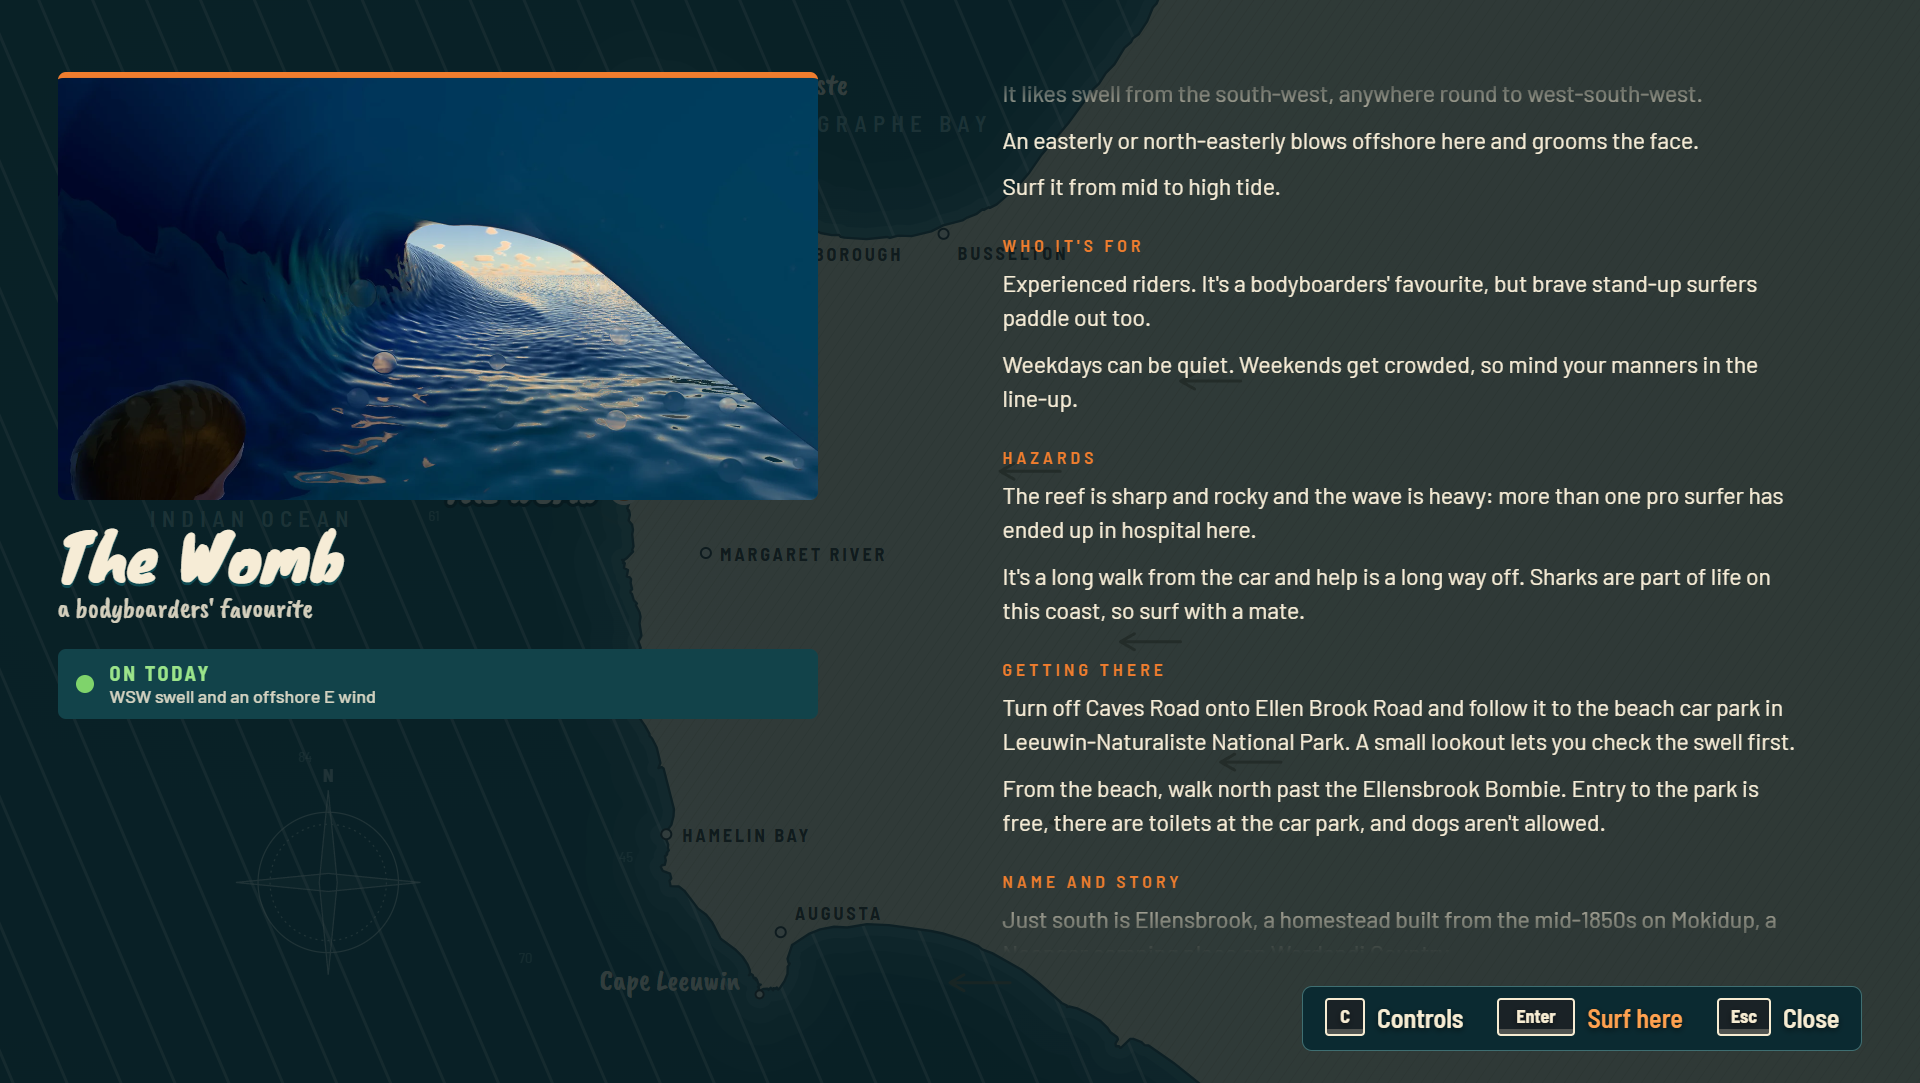
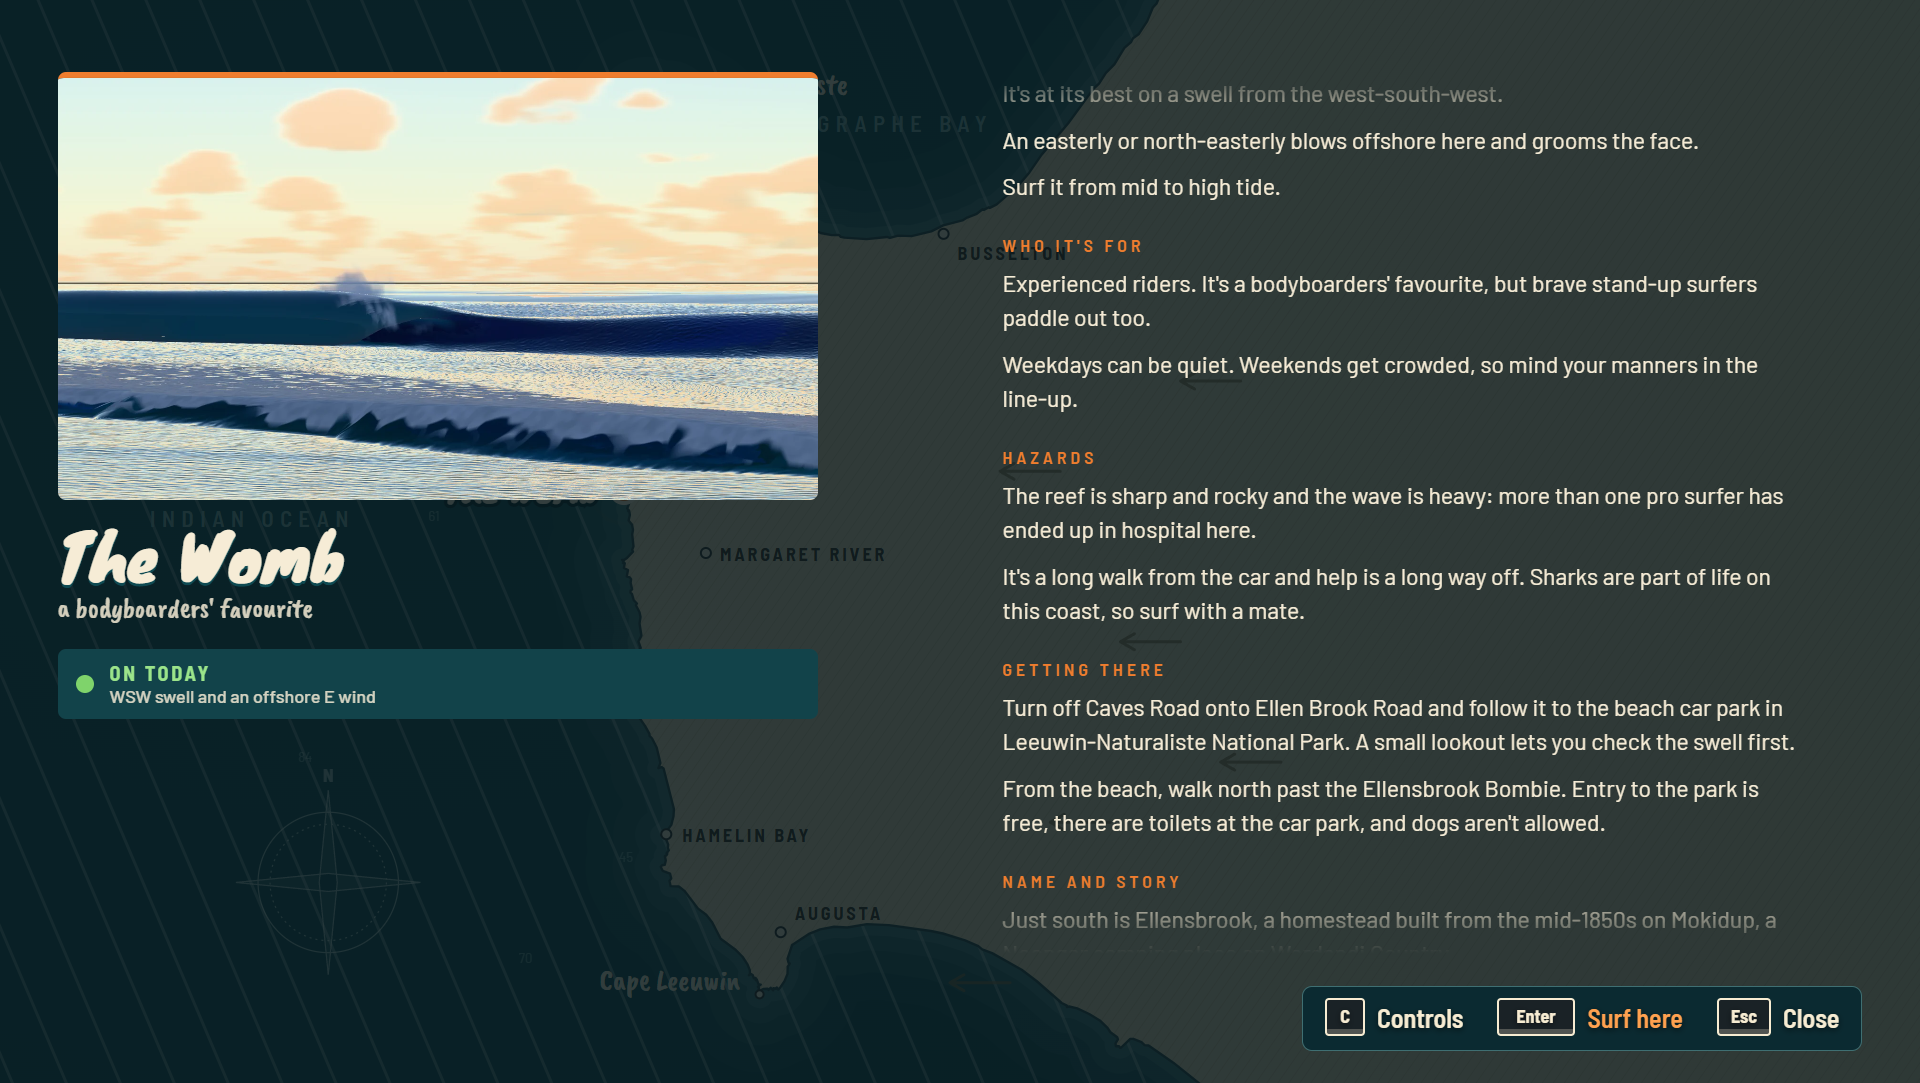
feat(surf-map): the Womb's swell claim reworded to WSW (what the retuned wave and the sources agree on); the details picture from the beach, not the tube cam; Dunsborough off the chart
- best swell 240–255° (WSW): claims rerun, best-swell passes; the panel names a one-point arc once.
- public/breaks/womb-hero.webp: shot from the shore 200 m down the line (tools/_heroMoment.ts); a placeholder until the
  wave is finished. The recapture command is in the evidence README.
- No Dunsborough label: no waves break there (Andrew).
- captureHub sets the custom setup the panel reads (customSetup).

Changed region(s): [[0.0312, 0.0609, 0.4688, 0.4875], [0.5312, 0.0609, 0.875, 0.0914]]

diff --git a/tools/_heroMoment.ts b/tools/_heroMoment.ts
@@ -1,0 +1,44 @@
+// surf-map hub: the break details page's hero, a shot from the beach in ideal conditions (Andrew 2026-10-10: not the
+// tube cam). Finds the beach inshore of the Womb's tip, puts a standing eye on it looking at the take-off, and prints
+// captureMoments.mjs lines for the biggest wave of a set at a few times after it reaches the tip.
+// npx node tools/_heroMoment.ts [--down=25] [--look=25] [--fov=0 (the game's)] [--pitch=1] [--from=247] [--band=Pumping] [--tide=0] [--times=1,2,3,4] [--eye=1.7] [--base=http://localhost:5173/] [--out=…]
+import { readFileSync } from 'node:fs';
+import { runnerImport } from 'vite';
+const imp = async <T>(p: string) => (await runnerImport<T>(p)).module;
+const { DEFAULT_CONDITIONS, cloneConditions } = await imp<typeof import('../src/conditions/defaults')>('/src/conditions/defaults.ts');
+const { DEFAULT_SET_PARAMS, wavesBetween } = await imp<typeof import('../src/swell/sets')>('/src/swell/sets.ts');
+const { SWELL_BANDS } = await imp<typeof import('../src/frontend/sessionSetup')>('/src/frontend/sessionSetup.ts');
+const { TIP, LEFT_BEARING_DEG } = await imp<typeof import('../src/seabed/wombReef')>('/src/seabed/wombReef.ts');
+const { decodeLandFile } = await imp<typeof import('../src/land/landData')>('/src/land/landData.ts');
+const { LandHeight } = await imp<typeof import('../src/land/landHeight')>('/src/land/landHeight.ts');
+
+const arg = (n: string) => process.argv.find((a) => a.startsWith(`--${n}=`))?.slice(n.length + 3);
+const from = Number(arg('from') ?? 247), band = arg('band') ?? 'Pumping', tide = Number(arg('tide') ?? 0), eye = Number(arg('eye') ?? 1.7);
+const times = (arg('times') ?? '1,2,3,4').split(',').map(Number), base = arg('base') ?? 'http://localhost:5173/';
+const out = arg('out') ?? '../liquid-dreams-captures/hero';
+const b64 = (o: unknown) => Buffer.from(JSON.stringify(o)).toString('base64');
+const lh = new LandHeight(decodeLandFile(new Uint8Array(readFileSync('public/terrain/womb-land.bin'))));
+const br = (LEFT_BEARING_DEG * Math.PI) / 180, along = [Math.sin(br), -Math.cos(br)], inshore = [Math.cos(br), Math.sin(br)];
+// The beach: the dry ground (0.4 m above the tide) nearest that point, searched on a 2 m grid.
+// --down: the shore nearest a point that far down the line (a left is shot from down the beach, looking back up the
+// line into the tube); --look: the point on the line the camera looks at.
+const down = Number(arg('down') ?? 25), look = Number(arg('look') ?? 25), fov = Number(arg('fov') ?? 0);
+const at0 = [TIP[0] + down * along[0], TIP[1] + down * along[1]];
+let beach: [number, number] | null = null, ground = 0, best = Infinity;
+for (let dx = -400; dx <= 400; dx += 2) for (let dz = -400; dz <= 400; dz += 2) {
+  const x = at0[0] + dx, z = at0[1] + dz, h = lh.heightAt(x, z), d = Math.hypot(dx, dz);
+  if (h !== null && Number.isFinite(h) && h > tide + 0.4 && d < best) { best = d; beach = [x, z]; ground = h; }
+}
+if (!beach) throw new Error('no beach found inshore of the tip');
+const at = [TIP[0] + look * along[0], TIP[1] + look * along[1]];
+const yawDeg = +(((Math.atan2(at[0] - beach[0], -(at[1] - beach[1])) * 180) / Math.PI + 360) % 360).toFixed(1);
+const camera = { mode: 'free', position: [+beach[0].toFixed(1), +(ground + eye).toFixed(2), +beach[1].toFixed(1)], yawDeg, pitchDeg: Number(arg('pitch') ?? 1) };
+const b = SWELL_BANDS.find((x) => x.label === band)!, c = cloneConditions(DEFAULT_CONDITIONS);
+c.swell.sizeFt = b.ft; c.swell.periodS = b.periodS; c.swell.directionDeg = from; c.tideM = tide;
+c.wind.speedMs = 3; c.wind.directionDeg = 90;
+const waves = wavesBetween(300, 900, c, DEFAULT_SET_PARAMS), set = waves.filter((w) => w.slot === waves[0].slot);
+const big = set.reduce((a, w) => (w.heightM > a.heightM ? w : a));
+const ts = times.map((t) => +(big.arrivalS + t).toFixed(2));
+console.log(`# beach ${beach.map((v) => v.toFixed(1))} ground ${ground.toFixed(2)} m, ${Math.hypot(beach[0] - TIP[0], beach[1] - TIP[1]).toFixed(0)} m from the tip; yaw ${yawDeg}`);
+const pre = fov ? ` "--pre=(() => { const c = window.liquidDreams.camera; c.fov = ${fov}; c.updateProjectionMatrix(); })()"` : '';
+console.log(`npx electron tools/captureMoments.mjs --base=${base} --out=${out}/${band}-${from}-tide${tide} --times=${ts.join(',')} --m=${b64({ conditions: c, camera, simTime: ts[0], paused: true })}${pre}`);

diff --git a/src/frontend/capesGeom.test.ts b/src/frontend/capesGeom.test.ts
@@ -1,6 +1,6 @@
 // src/frontend/capesGeom.test.ts
 import { describe, expect, it } from 'vitest';
-import { CHART, CHART_LABELS, TITLE_VIEW, capesToChart, chartSwellLines, chartWindArrows, compass16 } from './capesGeom';
+import { CHART, CHART_LABELS, TITLE_VIEW, capesToChart, chartSwellLines, chartWindArrows, compass16, compassArc } from './capesGeom';
 
 describe('capesToChart', () => {
   it('puts the frame origin at the top-left', () => {
@@ -20,10 +20,11 @@ describe('capesToChart', () => {
 });
 
 describe('labels', () => {
-  it('names both capes, Geographe Bay and the seven towns', () => {
+  it('names both capes, Geographe Bay and the towns (no Dunsborough: no waves break there, Andrew 2026-10-10)', () => {
     const t = CHART_LABELS.map((l) => l.text);
-    for (const n of ['Cape Naturaliste', 'Cape Leeuwin', 'GEOGRAPHE BAY', 'INDIAN OCEAN', 'YALLINGUP', 'DUNSBOROUGH', 'BUSSELTON', 'GRACETOWN', 'MARGARET RIVER', 'HAMELIN BAY', 'AUGUSTA'])
+    for (const n of ['Cape Naturaliste', 'Cape Leeuwin', 'GEOGRAPHE BAY', 'INDIAN OCEAN', 'YALLINGUP', 'BUSSELTON', 'GRACETOWN', 'MARGARET RIVER', 'HAMELIN BAY', 'AUGUSTA'])
       expect(t).toContain(n);
+    expect(t).not.toContain('DUNSBOROUGH');
   });
 });
 
@@ -58,6 +59,12 @@ describe('chartWindArrows', () => {
 describe('compass16', () => {
   it('names the sixteen points', () => {
     expect(compass16(247)).toBe('WSW'); expect(compass16(90)).toBe('E'); expect(compass16(359)).toBe('N'); expect(compass16(202)).toBe('SSW');
+  });
+});
+
+describe('compassArc', () => {
+  it('names an arc by its ends, once when both ends share a point', () => {
+    expect(compassArc([225, 248])).toBe('SW – WSW'); expect(compassArc([240, 255])).toBe('WSW');
   });
 });
 

diff --git a/src/frontend/ui/surfMapPanel.ts b/src/frontend/ui/surfMapPanel.ts
@@ -2,7 +2,7 @@
 // the tabs (Surf map · Library, locked), today's conditions and the source switch; top-right the Local tag; on the right
 // the focused break's panel; a dotted leader from its pin to the panel.
 import { SURF_BREAKS, breakById } from '../../breaks/index';
-import { compass16 } from '../capesGeom';
+import { compass16, compassArc } from '../capesGeom';
 import { breakToday, conditionsNow, todaysSetup } from '../conditionsSource';
 import type { FrontAction, FrontState } from '../frontEnd';
 import { CapesChart } from './capesChart';
@@ -69,8 +69,8 @@ export class SurfMapPanel {
     const verdictText = { on: 'ON TODAY', fair: 'FAIR TODAY', off: 'OFF TODAY' }[today_.verdict];
     const stat = (k: string, v: string) => { const d = h('div', 'fe-map-stat'); d.append(h('div', 'fe-map-stat-k', k), h('div', 'fe-map-stat-v', v)); return d; };
     const stats = h('div', 'fe-map-stats');
-    if (b.bestShown.swell) stats.appendChild(stat('BEST SWELL', `${compass16(b.best.swellFromDeg[0])} – ${compass16(b.best.swellFromDeg[1])}`));
-    if (b.bestShown.wind) stats.appendChild(stat('BEST WIND', `${compass16(b.best.windFromDeg[0])} – ${compass16(b.best.windFromDeg[1])} · offshore`));
+    if (b.bestShown.swell) stats.appendChild(stat('BEST SWELL', compassArc(b.best.swellFromDeg)));
+    if (b.bestShown.wind) stats.appendChild(stat('BEST WIND', `${compassArc(b.best.windFromDeg)} · offshore`));
     if (b.bestShown.tide) stats.appendChild(stat('BEST TIDE', b.best.tide.map((t) => TIDE[t]).join(', ')));
     stats.appendChild(stat('LEVEL', LEVEL[b.best.level]));
     const verdict = h('div', `fe-map-verdict is-${today_.verdict}`);

diff --git a/src/frontend/capesGeom.ts b/src/frontend/capesGeom.ts
@@ -21,7 +21,6 @@ export const CHART_LABELS: readonly ChartLabel[] = [
   { text: 'GEOGRAPHE BAY', lonLat: [115.27, -33.555], kind: 'water', dx: 0, dy: 0, anchor: 'middle', dot: false },
   { text: 'INDIAN OCEAN', lonLat: [114.56, -33.93], kind: 'water', dx: 0, dy: 0, anchor: 'middle', dot: false },
   { text: 'YALLINGUP', lonLat: [115.03, -33.645], kind: 'town', dx: 14, dy: 8, anchor: 'start', dot: true },
-  { text: 'DUNSBOROUGH', lonLat: [115.105, -33.615], kind: 'town', dx: 30, dy: 66, anchor: 'start', dot: true },
   { text: 'BUSSELTON', lonLat: [115.345, -33.652], kind: 'town', dx: 14, dy: 26, anchor: 'start', dot: true },
   { text: 'GRACETOWN', lonLat: [114.99, -33.866], kind: 'town', dx: 16, dy: -6, anchor: 'start', dot: true },
   { text: 'MARGARET RIVER', lonLat: [115.075, -33.955], kind: 'town', dx: 14, dy: 8, anchor: 'start', dot: true },
@@ -64,6 +63,12 @@ export function chartWindArrows(fromDeg: number | null, speedMs: number): WindAr
 const POINTS = ['N', 'NNE', 'NE', 'ENE', 'E', 'ESE', 'SE', 'SSE', 'S', 'SSW', 'SW', 'WSW', 'W', 'WNW', 'NW', 'NNW'];
 export function compass16(deg: number): string {
   return POINTS[Math.round((((deg % 360) + 360) % 360) / 22.5) % 16];
+}
+
+/** A direction arc in words: its two ends, or one when both round to the same point (the panel's best swell and wind). */
+export function compassArc(arc: readonly [number, number]): string {
+  const a = compass16(arc[0]), b = compass16(arc[1]);
+  return a === b ? a : `${a} – ${b}`;
 }
 
 /** The title's close-up: a 640×360 window (3× zoom) centred between Gracetown and the river mouth. */

diff --git a/docs/superpowers/evidence/surf-map-hub/README.md b/docs/superpowers/evidence/surf-map-hub/README.md
@@ -63,6 +63,30 @@ The executor's own rulings, task by task, are in `execution-ledger.md`, with the
 - **`tools/_selftest.mjs` can stall** when its window is occluded, because background throttling is on. A copy with
   throttling off ran the same tests clean.
 
+## The details page's picture (work in progress)
+
+Andrew, 2026-10-10: not the tube cam, a shot from the beach in ideal conditions.
+
+- **The current shot:** `public/breaks/womb-hero.webp`. It shows the Womb at 7 ft @ 15 s from 247°, mid tide, light
+  offshore, 1.8 s after the set's biggest wave reaches the take-off.
+- **Camera:** on the shore 200 m down the line, eye 5 m up, a 10° field of view.
+- **The wave is still being finished. Recapture the shot when it's done:**
+
+```
+npx node tools/_heroMoment.ts --down=200 --look=40 --eye=5 --fov=10 --pitch=-0.2 --times=1.2,1.8,2.4,3 --base=http://localhost:5173/ --out=<folder>
+```
+
+Run the `captureMoments.mjs` line it prints, with `--settle=4000`. Pick a frame, then crop it to 16:9 into
+`public/breaks/womb-hero.webp` (1600×900, webp quality 86).
+
+Close any other window running the game first. A second copy on the GPU makes frames lag, and the captures come out a
+step behind.
+
+## Map labels
+
+Dunsborough is left off the chart (Andrew, 2026-10-10): no waves break there, and its label sat a long way from its
+dot to clear Yallingup's.
+
 ## Left for later builds
 
 - **Build 2, the Library (Codex layout, mockup B):** the 66 flora and fauna slides with their cards, behind the map's

diff --git a/docs/superpowers/evidence/surf-map-hub/claims-report.md b/docs/superpowers/evidence/surf-map-hub/claims-report.md
@@ -50,3 +50,13 @@ checker's bar: every point of the first leg broken, and a peel of 8–20 m/s. WS
   to WSW only.
 - Until then, the panel hides "Best swell" and the details page hides the swell paragraph.
 - The claim is still listed in womb.json.
+
+## Reworded (Andrew, 2026-10-10)
+
+Andrew asked for the swell claim to be accurate.
+
+- **Best swell is now WSW only, 240–255°.** The text reads "It's at its best on a swell from the west-south-west."
+- **Sources:** Surf-Forecast names WSW as the best direction, and it lies inside Mondo's S–SW sector (157.5–247.5°).
+  The SW reading from the WannaSurf group isn't claimed.
+- **Game check:** `npm run claims` shows best-swell PASS (247°: breaks). The panel shows "BEST SWELL: WSW".
+- A 225° (SW) day now reads **Fair** ("Swell from the SW") rather than On.
